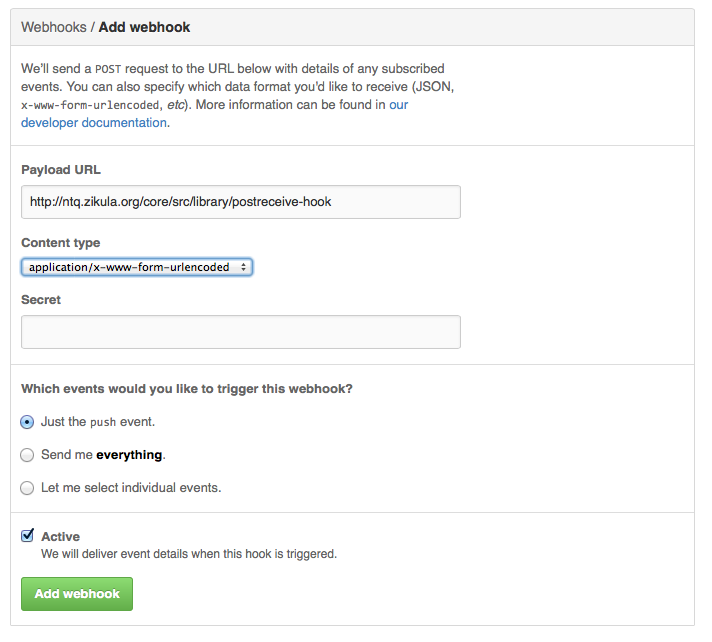
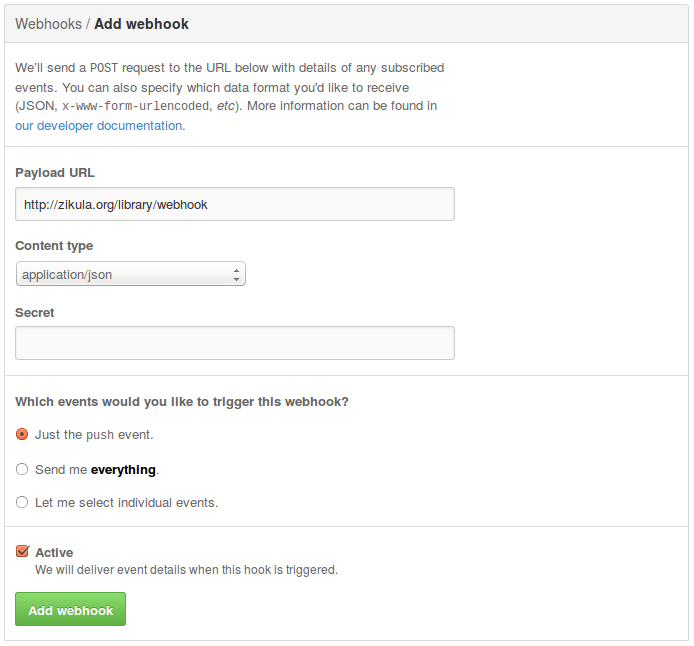
Updated and extended screenshots, closes #19.

Changed region(s): [[0.0, 0.0, 0.6354, 0.9969], [0.6354, 0.4984, 0.6657, 0.5607], [0.6354, 0.2804, 0.6657, 0.3427]]

diff --git a/Zikula/Module/ExtensionLibraryModule/Controller/UserController.php b/Zikula/Module/ExtensionLibraryModule/Controller/UserController.php
@@ -215,6 +215,8 @@ class UserController extends \Zikula_AbstractController
                     'img3' => $module->getRelativePath() . '/docs/images/shots3.png',
                     'img4' => $module->getRelativePath() . '/docs/images/shots4.png',
                     'img5' => $module->getRelativePath() . '/docs/images/shots5.png',
+                    'img6' => $module->getRelativePath() . '/docs/images/shots6.png',
+                    'img7' => $module->getRelativePath() . '/docs/images/shots7.png',
                 )),
             'sample-manifest' => array('file' => '/docs/zikula.manifest.json'),
             'sample-composer' => array('file' => '/docs/composer.json'),

diff --git a/Zikula/Module/ExtensionLibraryModule/docs/webhookGuide.md b/Zikula/Module/ExtensionLibraryModule/docs/webhookGuide.md
@@ -25,3 +25,13 @@ Fill out the form exactly as shown below, and click `Add webhook`
 When finished it should look like this:
 
 ![webhook list][img5]
+
+###Step 6
+To make sure everything worked, click on the webhook once again and scroll down. You should see something like this:
+
+![webhook recent deliveries][img6]
+
+Click on the three little dots at the right hand side and than on the `Response` tab. You're done if it says `Ping
+event received` at the bottom.
+
+![webhook sdf][img7]
